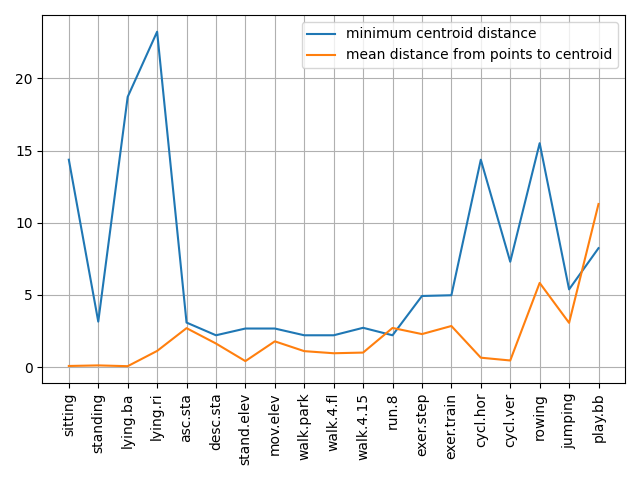
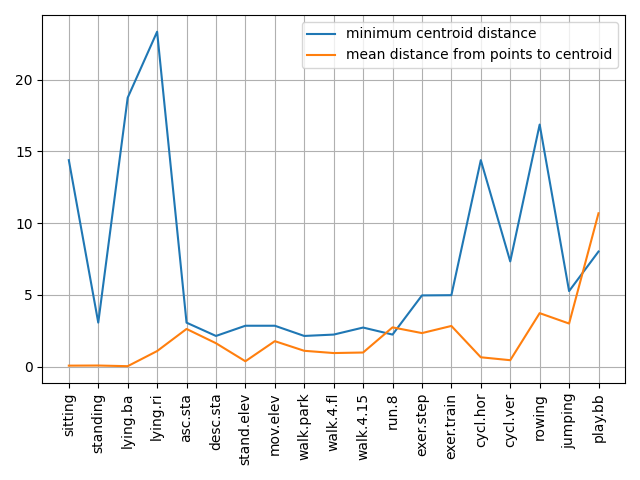
lab04: created train and test set

diff --git a/LAB04/data_visualization.py b/LAB04/data_visualization.py
@@ -96,10 +96,60 @@ actNamesSub=[actNamesShort[i-1] for i in activities] # short names of the select
 sensors=list(range(45)) # list of sensors
 sensNamesSub=[sensNames[i] for i in sensors] # names of selected sensors
 Nslices=12 # number of slices to plot
-#Ntot=60 #total number of slices
+NtotSlices=60 #total number of slices
 slices=list(range(1,Nslices+1))# first Nslices to plot
 fs=25 # Hz, sampling frequency
 samplesPerSlice=fs*5 # samples in each slice
+
+###################### Generate training and test set #####################################
+nTrainSlices = 10
+slicesTrain = list(range(1,nTrainSlices+1)) 
+slicesTest = list(range(nTrainSlices+1, NtotSlices+1))
+N_tr= nTrainSlices * NAc * 5
+X_train = np.zeros([N_tr, len(sensors)])
+N_te = (NtotSlices - nTrainSlices) * NAc * 5
+X_test = np.zeros([N_te, len(sensors)])
+iter_tr = 0
+iter_te = 0
+for i in range(1, NAc+1):
+    activities = [i]
+    # Training Set
+    x_tr=myFn.generateDF(filedir,sensNamesSub,patients,activities,slicesTrain)
+    x_tr=x_tr.drop(columns=['activity'])
+    x_tr = myFn.averageSampling(x_tr, 25)
+    x_tr = x_tr.values
+    X_train[iter_tr:len(x_tr)+iter_tr, :] = x_tr
+    iter_tr += len(x_tr)
+    # Test set
+    x_te=myFn.generateDF(filedir,sensNamesSub,patients,activities,slicesTest)
+    x_te=x_te.drop(columns=['activity'])
+    x_te = myFn.averageSampling(x_te, 25)
+    x_te = x_te.values
+    X_test[iter_te:len(x_te)+iter_te, :] = x_te
+    iter_te += len(x_te)
+
+# plot centroids and stand. dev. of sensor values
+print('Number of used sensors: ',len(sensors))
+n_averageSens = 45
+centroids=np.zeros((NAc,n_averageSens))# centroids for all the activities
+stdpoints=np.zeros((NAc,n_averageSens))# variance in cluster for each sensor
+# Evaluate centroids and std of sensor values
+for i in range(1,NAc+1):
+    activities=[i]
+    x=myFn.generateDF(filedir,sensNamesSub,patients,activities,slices)
+    x=x.drop(columns=['activity'])
+    #x = x.values
+    #x = StandardScaler().fit_transform(x)
+    #pca = PCA(n_components=30)
+    #x = pd.DataFrame(x, columns=sensNames)
+    #pca.fit_transform(x)
+    #components = pd.DataFrame(pca.components_,columns=x.columns)
+    #print(np.argmax(components.values[0]))
+    x = myFn.averageSampling(x, 25)
+    
+    #corr_matr = myFn.evaluateCorr(x)
+    centroids[i-1,:]=x.mean().values
+    stdpoints[i-1]=np.sqrt(x.var().values)
 
 #%% plot the measurements of each selected sensor for each of the activities
 plotSensAct = False
@@ -123,34 +173,8 @@ if plotSensAct:
         plt.title(actNames[i-1])
     #plt.show()
 
-# plot centroids and stand. dev. of sensor values
-print('Number of used sensors: ',len(sensors))
-n_averageSens = 45
-centroids=np.zeros((NAc,n_averageSens))# centroids for all the activities
-stdpoints=np.zeros((NAc,n_averageSens))# variance in cluster for each sensor
-# Evaluate centroids and std of sensor values
-for i in range(1,NAc+1):
-    activities=[i]
-    x=myFn.generateDF(filedir,sensNamesSub,patients,activities,slices)
-    x=x.drop(columns=['activity'])
-    #x = x.values
-    #x = StandardScaler().fit_transform(x)
-    #pca = PCA(n_components=30)
-    #x = pd.DataFrame(x, columns=sensNames)
-    #pca.fit_transform(x)
-    #components = pd.DataFrame(pca.components_,columns=x.columns)
-    #print(np.argmax(components.values[0]))
-    data = x.values
-    cluster = sk.DBSCAN(eps=20, min_samples=3).fit(data)  # fitting
-    ii = np.argwhere(cluster.labels_ == -1)[:, 0]  # outliers
-    x = x.drop(ii)
-    x = myFn.averageSampling(x, 25)
-    
-    #corr_matr = myFn.evaluateCorr(x)
-    centroids[i-1,:]=x.mean().values
-    stdpoints[i-1]=np.sqrt(x.var().values)
-
 # Plotting centroids and std of sensor values
+
 plotCentr = False
 if plotCentr:
     plt.figure(figsize=(12,6))
